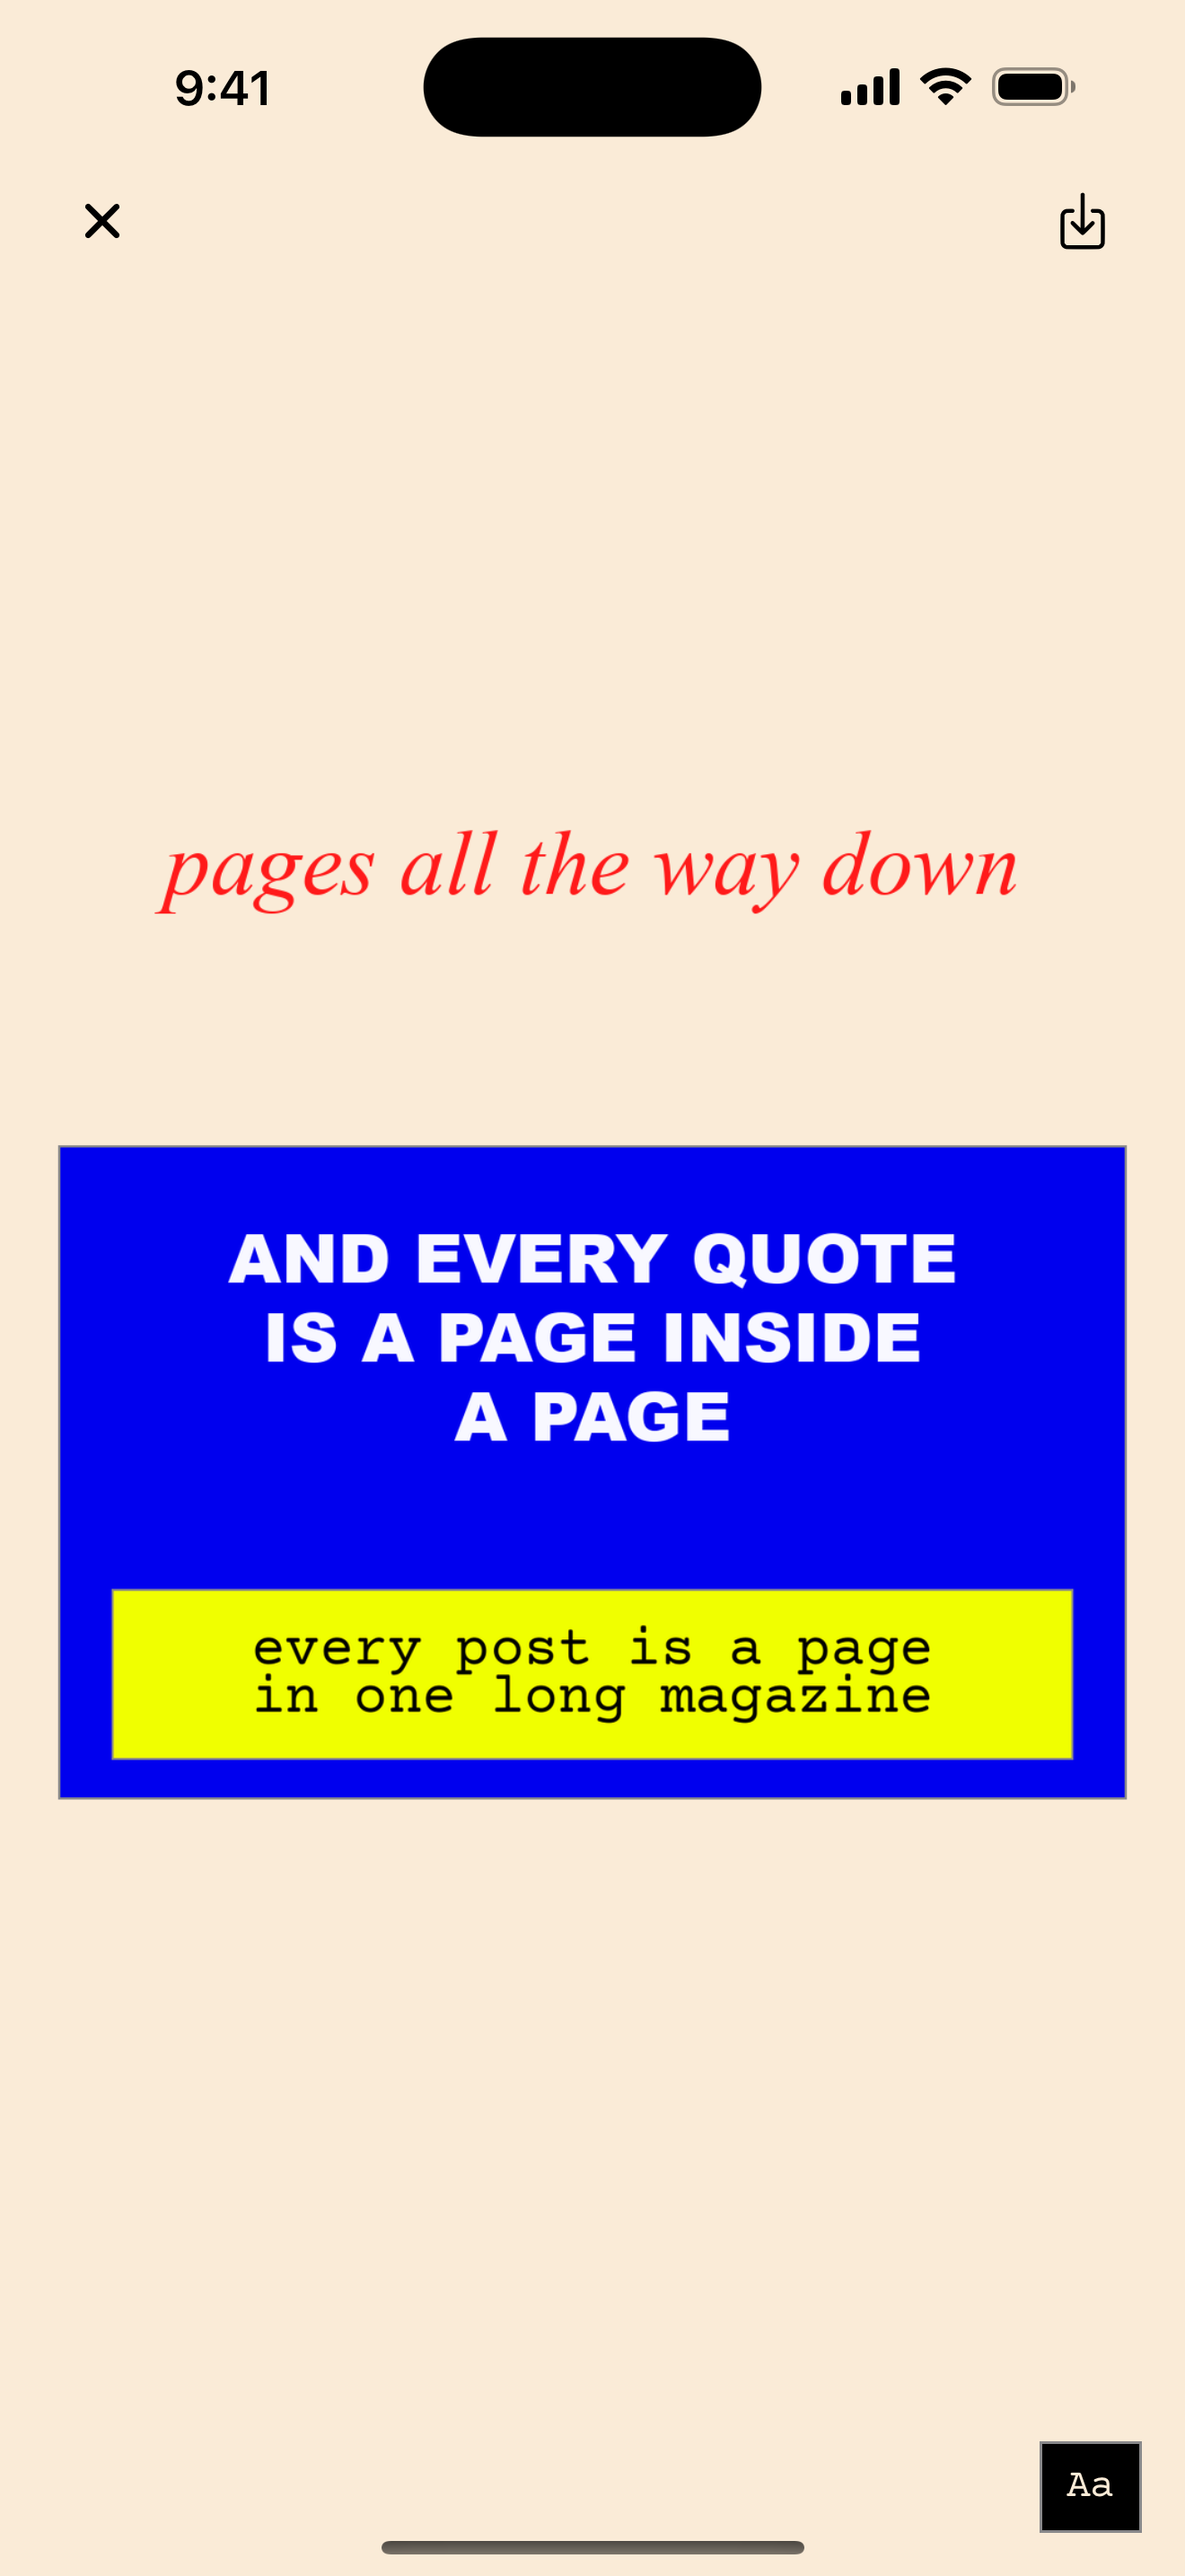
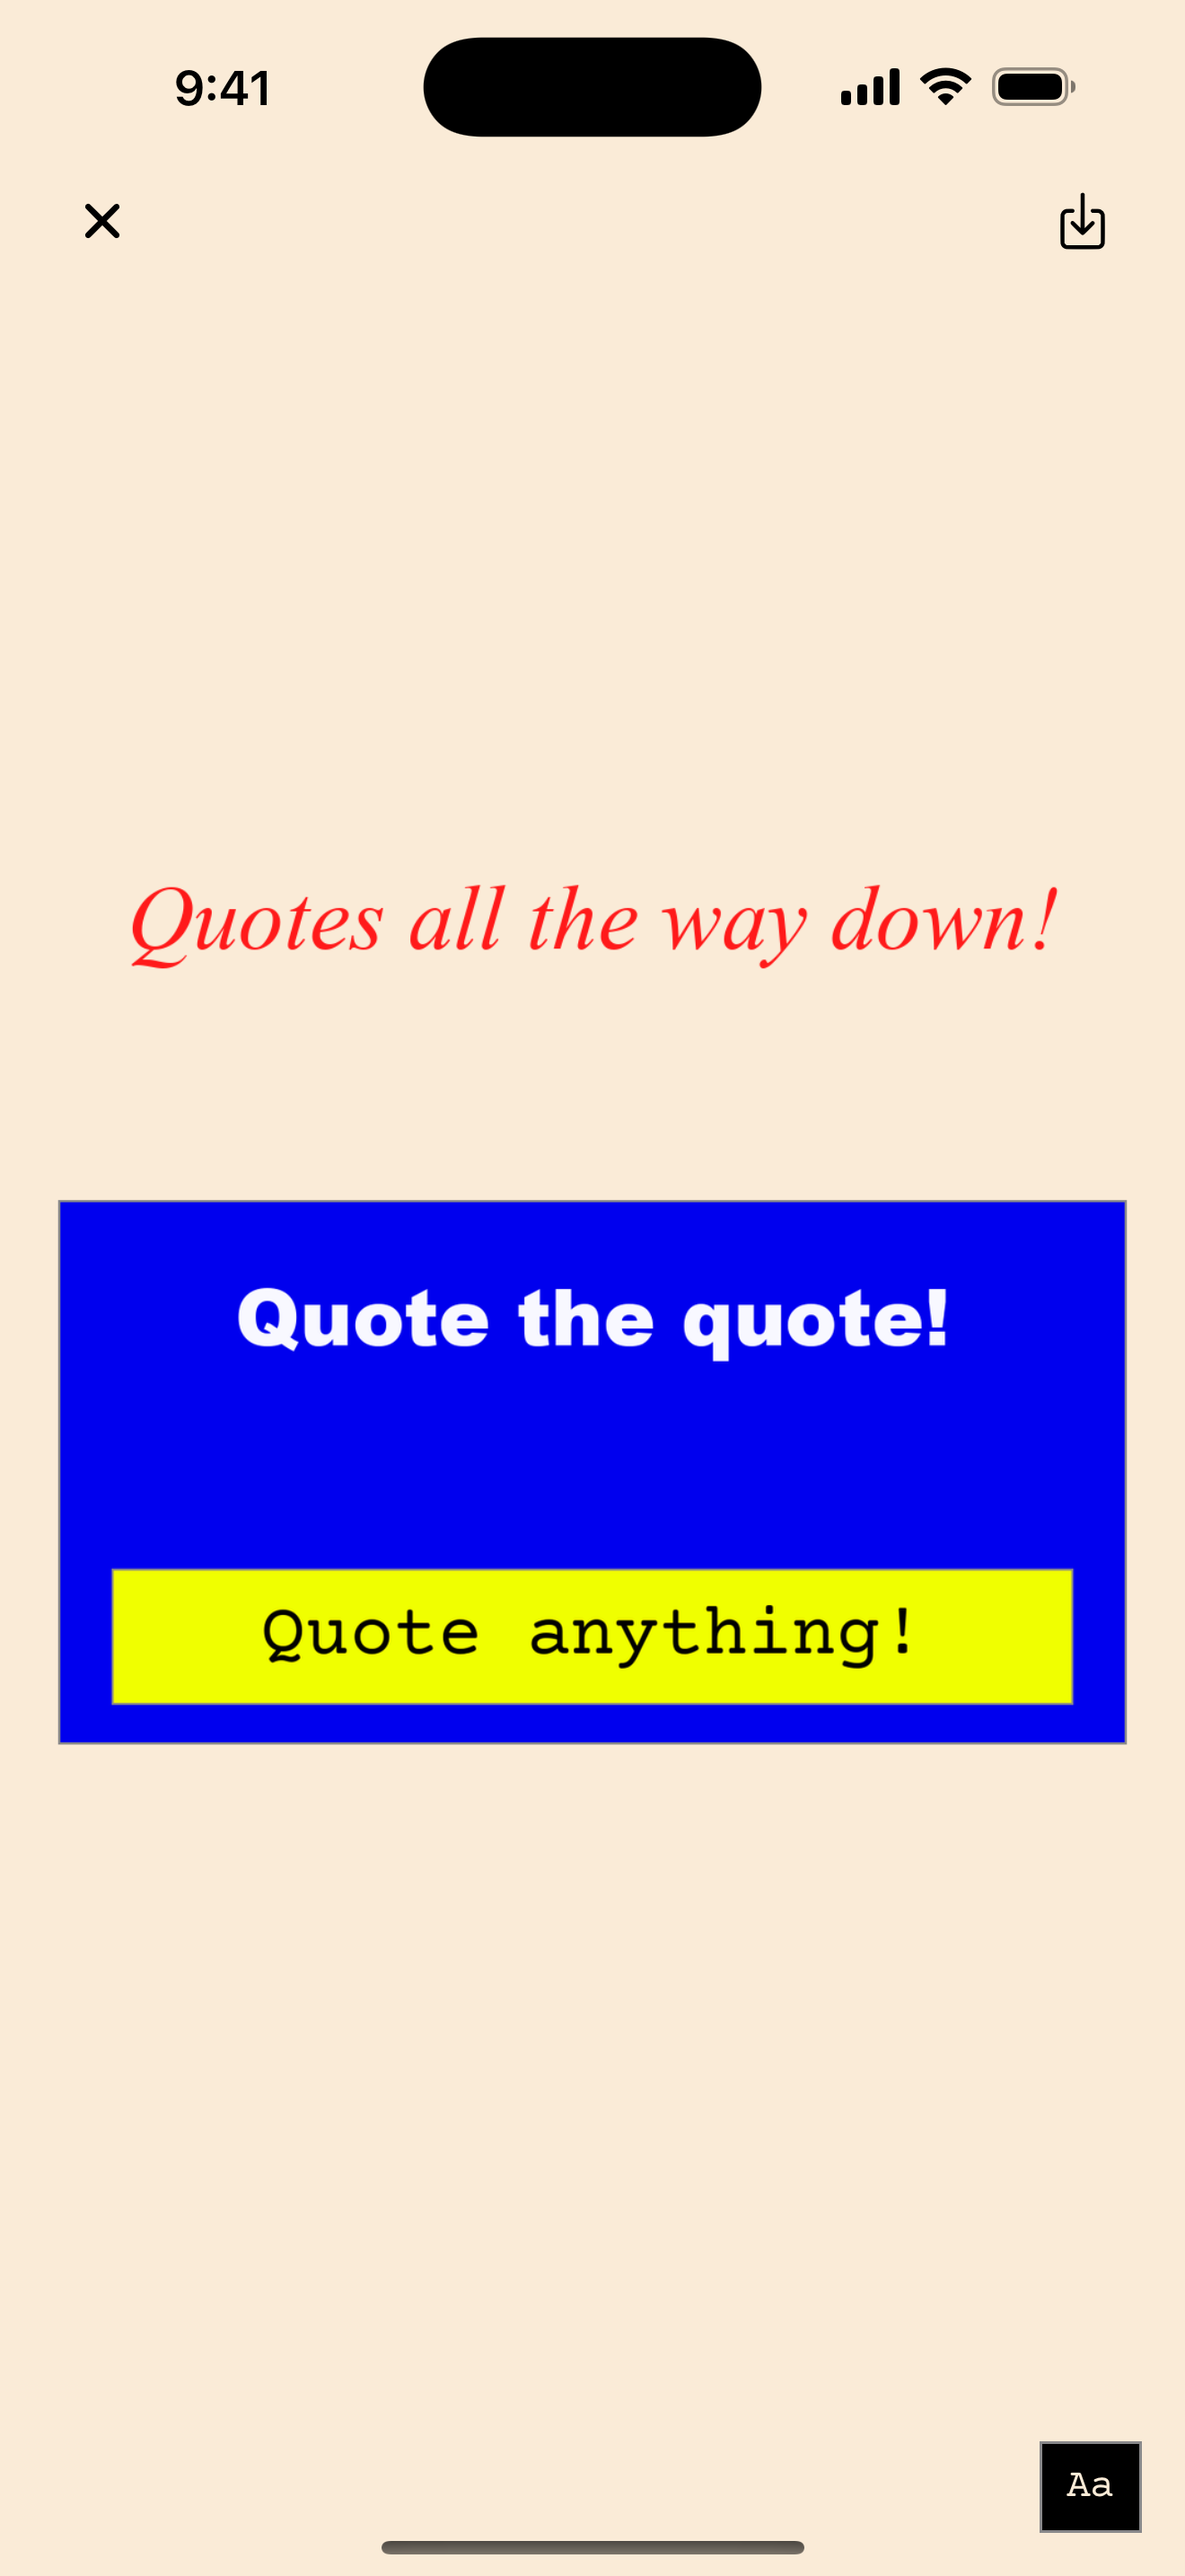
Screenshots: chain copy in house style; fifth shot, gradient full-bleed
- Quote chain reads "Quote anything!" / "Quote the quote!" / "Quotes all
  the way down!"; 02 and 03 retaken
- 05-gradient: "Text as image!" opened full-bleed with its gradient

diff --git a/frontend/scripts/seed-store.ts b/frontend/scripts/seed-store.ts
@@ -57,12 +57,12 @@ async function quote(device: string, original: any, background: string, caption:
 async function main() {
   // Oldest first: the feed shows the last one on top.
   const a = await post('seed-ines', snapshot('#F0FF00', [
-    el('every post is a page\nin one long magazine', { fontFamily: 'courier-prime', fontSize: 26, color: '#000000', y: 430 }),
+    el('Quote anything!', { fontFamily: 'courier-prime', fontSize: 34, color: '#000000', y: 430 }),
   ]));
   const b = await quote('seed-otto', a, '#0000EE',
-    el('AND EVERY QUOTE\nIS A PAGE INSIDE\nA PAGE', { fontFamily: 'arial-black', fontSize: 28, color: '#F8F8FF' }));
+    el('Quote the quote!', { fontFamily: 'arial-black', fontSize: 32, color: '#F8F8FF' }));
   await quote('seed-maru', b, '#FAEBD7',
-    el('pages all the way down', { fontFamily: 'crimson-text', fontSize: 34, color: '#FF1A1A', italic: true }));
+    el('Quotes all the way down!', { fontFamily: 'crimson-text', fontSize: 34, color: '#FF1A1A', italic: true }));
 
   await post('seed-otto', snapshot('#F0FF00', [
     el('yes, papyrus.', { fontFamily: 'papyrus', fontSize: 44, alternateColors: ['#FF1493', '#0000EE'], y: 460 }),
